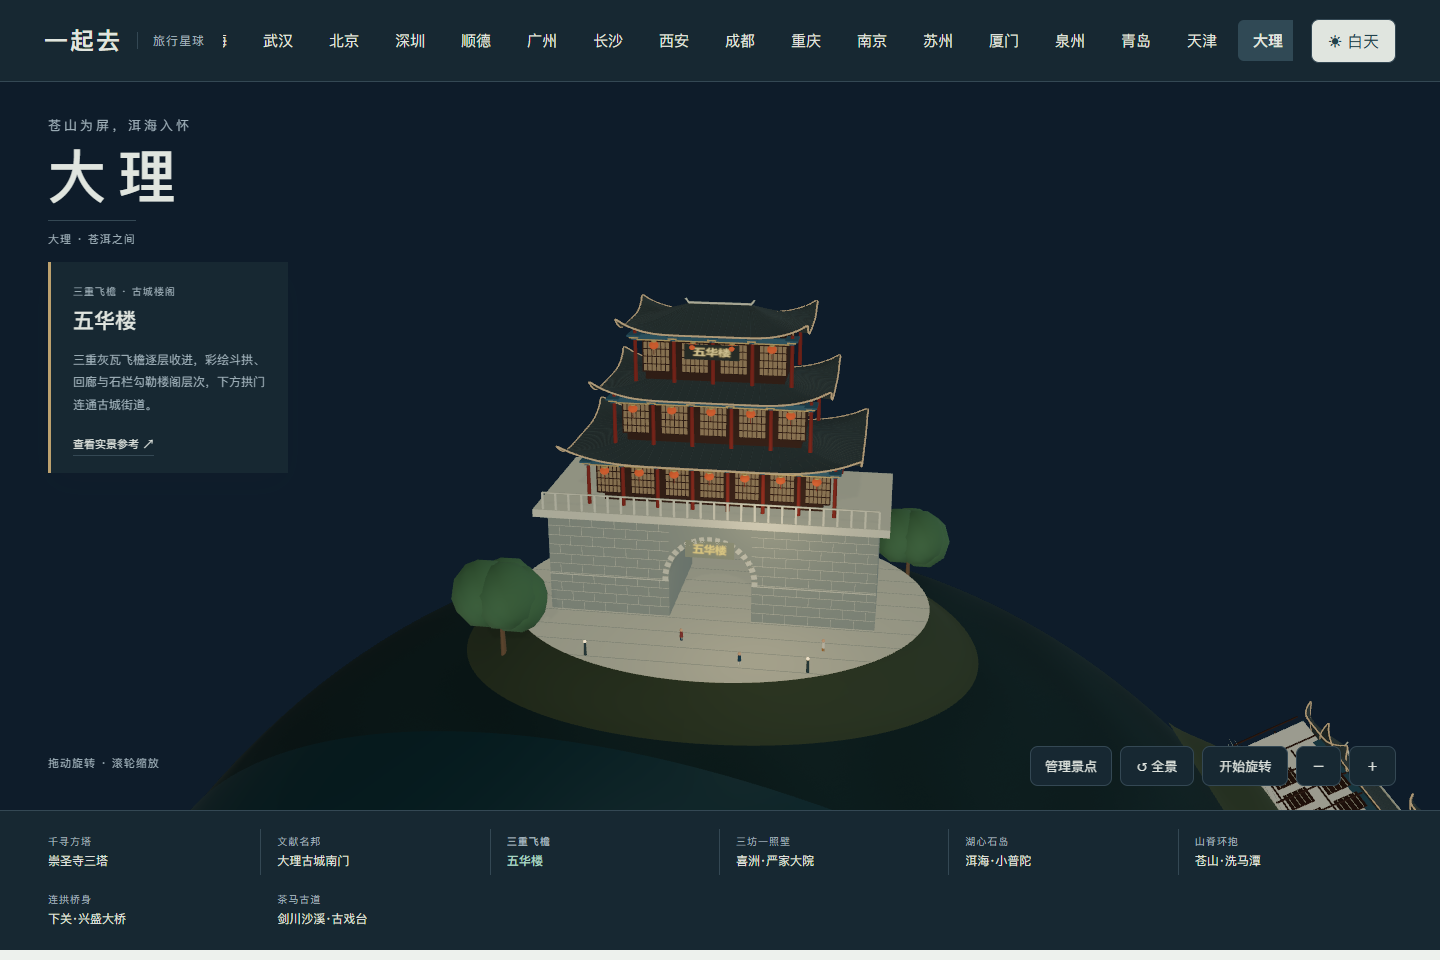
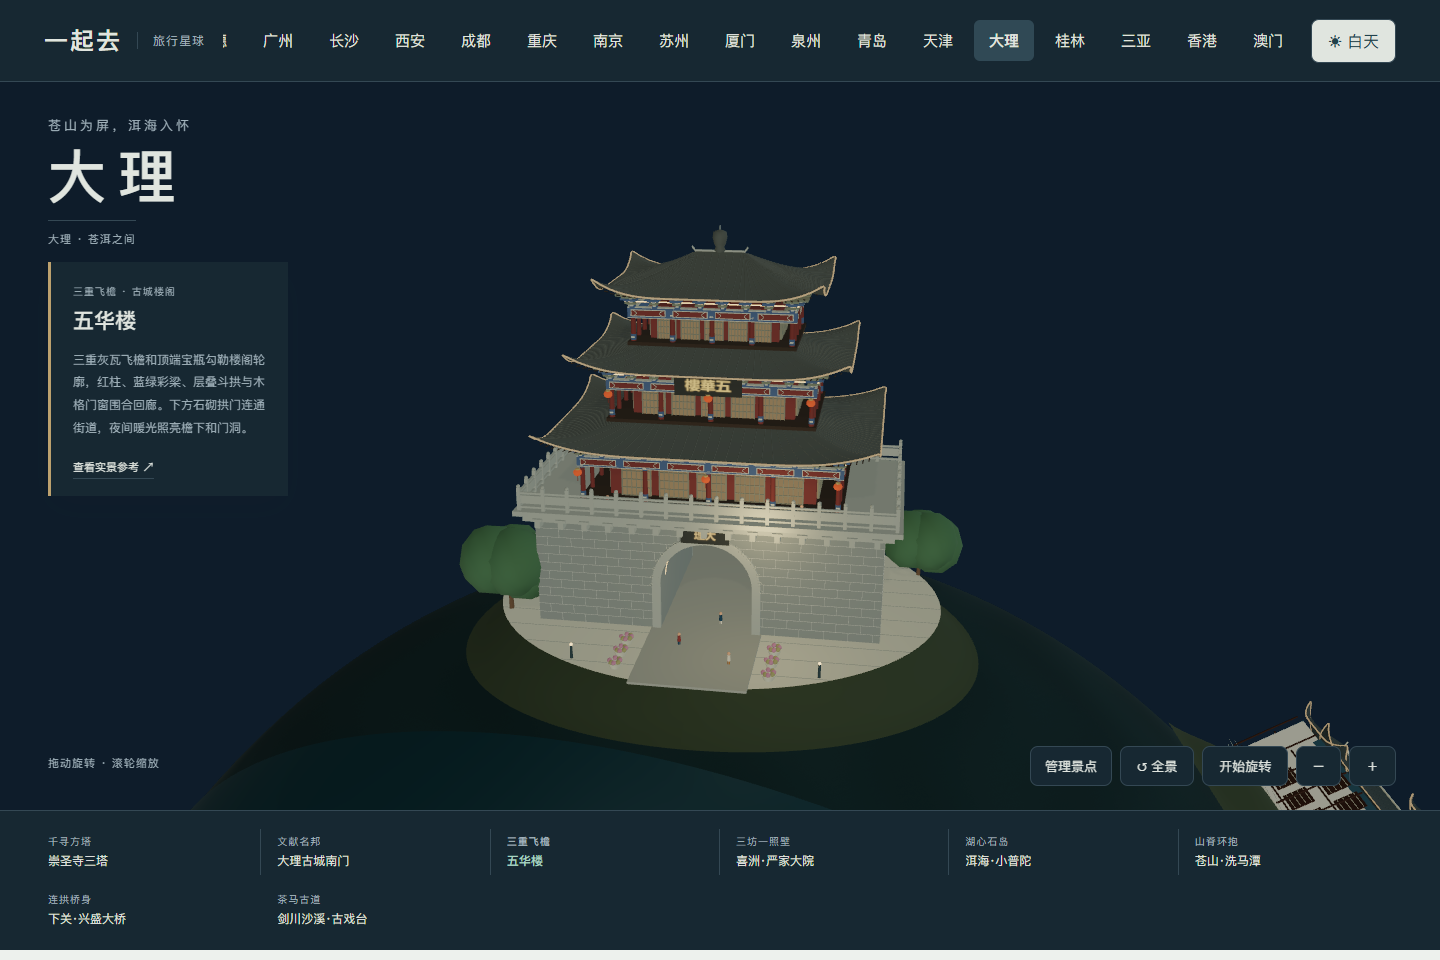
Refine Dali South Gate and Wuhua Tower from photographs

diff --git a/web/dali-south.js b/web/dali-south.js
@@ -1,0 +1,60 @@
+import * as THREE from 'three';
+import {palette,site,paving,disc,roof,lit,sign,archOpening,finish,lattice,lantern,grove} from './dali-kit.js';
+
+export function south(k){
+ const g=new THREE.Group(),p=palette(k),ground=site(k,g,.75,.64);
+ const paved=(x,z)=>{const t=THREE.MathUtils.smoothstep(Math.hypot(x/.65,z/.54),.58,1);return .020*(1-t)+(ground(x,z)+.002)*t;};
+ disc(k,g,.65,.54,paved,p.pale);
+ for(let j=-5;j<=5;j++){const z=j*.54/6,w=2*.65*Math.sqrt(1-(z/.54)**2);k.line(g,Array.from({length:41},(_,i)=>{const x=(i/40-.5)*w;return [x,paved(x,z)+.001,z];}),.0005,p.stone);}
+
+ const stone=lit(k,'#777e72',.18,'#b6a17b'),joint=k.mat('#a2a592',.97),cap=k.mat('#898d7a',.97),blue=lit(k,'#325c80',.14,'#a2b8bf'),green=lit(k,'#47786b',.12),cream=k.mat('#b8b895',.93),red=lit(k,'#8b392d',.13,'#be8052'),wood=k.mat('#4f3a2e',.94),pane=lit(k,'#342f29',.12),gold=lit(k,'#b4a16a',.65),warm=lit(k,'#c5a16d',.88),tile=lit(k,'#505e58',.24,'#b49c72');stone.userData.southWall=true;
+ const floor=k.mat('#a7a795',.96);floor.userData.southPaving=true;
+ const supported=(x,z,w,d,top,mat)=>{const geo=new THREE.BoxGeometry(w,1,d,12,1,48),v=geo.attributes.position;for(let i=0;i<v.count;i++)v.setY(i,v.getY(i)>0?(typeof top==='function'?top(x+v.getX(i),z+v.getZ(i)):top):ground(x+v.getX(i),z+v.getZ(i))+.0003);geo.computeVertexNormals();k.mesh(g,geo,mat,x,0,z);};
+ supported(0,0,1.30,.42,.0285,stone);const approach=(x,z,edge,start)=>{const t=THREE.MathUtils.smoothstep(Math.abs(z),start,edge);return Math.max(.029*(1-t)+(ground(x,z)+.003)*t,paved(x,z)+.006);};supported(0,0,.28,1.1,(x,z)=>approach(x,z,.55,.25),floor);
+ const masonry=(x,w,h,d,opening,rise)=>{
+  archOpening(k,g,stone,{w,h,opening,rise,d,x,y:.029});const spring=.029+rise-opening/2;
+  for(const z of [-d/2-.001,d/2+.001]){
+   for(let j=1;j<h/.022;j++){const y=.029+j*.022,half=y<spring?opening/2:y<spring+opening/2?Math.sqrt((opening/2)**2-(y-spring)**2):0;
+    for(const side of [-1,1]){const length=w/2-half;k.box(g,length,.0009,.001,joint,x+side*(w/2+half)/2,y,z);}
+    for(let i=0;i<Math.ceil(w/.049);i++){const xx=-w/2+(i+.5+(j%2)*.5)*.049;if(Math.abs(xx)>half+.008&&Math.abs(xx)<w/2-.003)k.box(g,.0008,.021,.001,joint,x+xx,y-.011,z);}
+   }
+   for(let j=0;j<=30;j++){const a=j/30*Math.PI;const o=k.box(g,.012,.021,.008,cap,x+Math.cos(a)*(opening/2+.010),spring+Math.sin(a)*(opening/2+.010),z);o.rotation.z=a-Math.PI/2;}
+   for(const side of [-1,1])k.box(g,.02,spring-.029,.008,cap,x+side*(opening/2+.010),(spring+.029)/2,z);
+  }
+  k.box(g,w,.018,d+.016,cap,x,.029+h+.009,0);
+  for(const side of [-1,1])for(let i=0;i<Math.round(w/.09);i++){const xx=x+(i/(Math.round(w/.09)-1)-.5)*(w-.06),yy=.029+h+.041;k.box(g,.052,.048,.03,stone,xx,yy,side*(d/2-.008));k.box(g,.058,.008,.036,cap,xx,yy+.028,side*(d/2-.008));k.box(g,.011,.014,.002,wood,xx,yy-.007,side*(d/2+.008));}
+ };
+ masonry(0,.94,.34,.42,.24,.276);for(const side of [-1,1])masonry(side*.56,.18,.28,.26,.082,.195);
+ for(const x of [-.651,.651])for(let j=0;j<12;j++)k.box(g,.001,.0009,.26,joint,x,.039+j*.022,0);
+ // Paving continues through the two flanking openings as well as the central portal.
+ for(const side of [-1,1])supported(side*.56,.03,.105,.82,(x,z)=>approach(x,z,.44,.20),floor);
+ for(const z of [-.18,.0,.18]){const pts=[];for(let j=0;j<=32;j++){const a=j/32*Math.PI;pts.push([Math.cos(a)*.119,.185+Math.sin(a)*.119,z]);}k.line(g,pts,.0015,warm);}
+ k.box(g,.86,.011,.38,wood,0,.3915,0);
+ const beamPattern=(parent,w,y,z)=>{k.box(parent,w,.022,.016,blue,0,y,z);for(const yy of [-.011,.011])k.box(parent,w,.002,.019,cream,0,y+yy,z);const n=Math.round(w/.10);for(let i=0;i<n;i++){const xx=((i+.5)/n-.5)*w,ww=w/n*.82;k.box(parent,ww,.015,.002,green,xx,y,z+.009);for(const side of [-1,1])k.line(parent,[[xx+side*ww*.42,y-.006,z+.011],[xx+side*ww*.30,y,z+.011],[xx+side*ww*.42,y+.006,z+.011]],.001,cream);k.mesh(parent,new THREE.TorusGeometry(.006,.001,4,12),cream,xx,y,z+.011);}};
+ const brackets=(parent,w,d,y)=>{for(const side of [-1,1])for(const axis of [0,1]){const len=axis?d:w,n=Math.round(len/.047);for(let i=0;i<=n;i++){const at=(i/n-.5)*len;for(let j=0;j<4;j++){const off=.008*j,x=axis?side*(w/2+off):at,z=axis?at:side*(d/2+off);k.box(parent,.012+j*.009,.006,.014+j*.012,j%2?green:blue,x,y+j*.012,z);k.box(parent,.006,.006,.009,cream,x,y+j*.012-.006,z);}}}};
+ const tiers=[[.78,.35,.397,.13,1.02,.58,.075],[.63,.30,.645,.115,.88,.51,.128]];
+ for(const [w,d,y,h,rw,rd,rh]of tiers){
+  const b=new THREE.Group();b.position.y=y;g.add(b);k.box(b,w*.82,h*.92,d*.65,wood,0,h*.46,0);
+  for(const side of [-1,1]){const face=new THREE.Group();face.rotation.y=side<0?Math.PI:0;b.add(face);
+   for(let i=0;i<7;i++){const x=(i-3)*w*.118;k.box(face,w*.091,h*.70,.003,pane,x,h*.43,d*.33+.002);lattice(k,face,x,h*.43,d*.33+.005,w*.085,h*.68,wood);}
+   for(let i=0;i<=6;i++){const x=(i/6-.5)*w;k.cyl(face,.006,.0075,h,red,x,h/2,d*.50,12);for(const yy of [.025,h-.018]){k.cyl(face,.0077,.0077,.017,green,x,yy,d*.50,12);k.box(face,.012,.002,.002,cream,x,yy,d*.50+.008);}}
+   beamPattern(face,w+.02,h-.008,d*.50);for(let i=0;i<=6;i++)lantern(k,face,p,(i/6-.5)*w,h+.012,d*.62,.013);
+  }
+  for(const side of [-1,1]){const face=new THREE.Group();face.rotation.y=side*Math.PI/2;b.add(face);beamPattern(face,d,h-.008,w*.50);for(let i=-1;i<=1;i++)k.cyl(b,.006,.007,h,red,side*w*.50,h/2,i*d*.27,12);}
+  for(const side of [-1,1])for(let j=-1;j<=1;j++){const face=new THREE.Group();face.rotation.y=side*Math.PI/2;b.add(face);k.box(face,d*.17,h*.65,.003,pane,j*d*.21,h*.43,w*.413);lattice(k,face,j*d*.21,h*.43,w*.417,d*.16,h*.64,wood);}
+  brackets(b,w,d,h+.006);roof(k,b,{...p,tile,pale:cream},rw,rd,rh,h+.054);
+  for(const side of [-1,1]){k.box(b,w+.05,.003,.004,warm,0,h+.035,side*(d/2+.03));k.box(b,.003,.003,d+.05,warm,side*(w/2+.03),h+.035,0);}
+  // Closely spaced round eave tiles and separate rafters give the double roof its depth.
+  for(const side of [-1,1])for(let i=0;i<65;i++){const x=(i/64-.5)*rw*.94,u=Math.abs(x/(rw/2)),yy=h+.054+.04*u**8;k.ball(b,.0023,cream,x,yy,side*rd*.50);k.beam(b,[x,yy-.007,side*rd*.44],[x,yy-.003,side*rd*.50],.0016,red,6);}
+  const ridge=(rw-rd)*.48;for(const side of [-1,1]){k.line(b,[[side*ridge,h+.054+rh,0],[side*(ridge+.022),h+.054+rh+.014,0],[side*(ridge+.027),h+.054+rh+.038,0],[side*(ridge+.019),h+.054+rh+.046,0]],.004,cream);}
+  for(let j=-3;j<=3;j++){const xx=j*ridge/3;k.cyl(b,.003,.005,.017,cream,xx,h+.054+rh+.010,0,8);k.ball(b,.003,gold,xx,h+.054+rh+.020,0);}
+ }
+ if(typeof document!=='undefined')for(const [i,char]of [...'邦名獻文'].entries()){
+  const c=document.createElement('canvas');c.width=c.height=256;const ctx=c.getContext('2d');ctx.fillStyle='#283d3b';ctx.fillRect(0,0,256,256);ctx.strokeStyle='#7c977c';ctx.lineWidth=4;ctx.strokeRect(5,5,246,246);ctx.font='bold 190px "Microsoft YaHei",sans-serif';ctx.fillStyle='#a6b997';ctx.textAlign='center';ctx.textBaseline='middle';ctx.fillText(char,128,137);const tex=new THREE.CanvasTexture(c);tex.colorSpace=THREE.SRGBColorSpace;const mat=lit(k,'#ffffff',.4);mat.map=tex;mat.emissiveMap=tex;k.mesh(g,new THREE.PlaneGeometry(.078,.086),mat,(i-1.5)*.099,.742,.198);
+ }
+ sign(k,g,'理大',.126,.057,0,.324,.218,{background:'#7b8378',color:'#bba265'});
+ // Raised flowerbeds follow the real approach; the central route stays unobstructed.
+ for(const side of [-1,1]){supported(side*.325,.36,.29,.19,.0505,cap);k.box(g,.275,.004,.175,p.leaf,side*.325,.0525,.36);for(let i=0;i<22;i++){const x=side*.325+Math.sin(i*2.4)*.11,z=.36+Math.cos(i*2.4)*.063;k.ball(g,.007,k.mat(i%3?'#9f5969':'#c3aa68'),x,.062,z);}}
+ grove(k,g,ground,[[-.62,-.24,.19],[.61,-.25,.18]]);
+ return finish(k,g,{lamps:[[-.37,paved(-.37,.49),.49],[.37,paved(.37,.49),.49]],visitors:[[-.055,approach(-.055,.40,.55,.25),.40],[.08,approach(.08,.30,.55,.25),.30],[.025,.029,.15],[.56,approach(.56,.25,.44,.20),.25],[-.24,.397,.17]]});
+}

diff --git a/web/dali-wuhua.js b/web/dali-wuhua.js
@@ -1,0 +1,66 @@
+import * as THREE from 'three';
+import {palette,site,paving,grove,roof,lit,sign,archOpening,finish,lattice,lantern} from './dali-kit.js';
+
+export function wuhua(k){
+ const g=new THREE.Group(),p=palette(k),ground=site(k,g,.72,.61);paving(k,g,p,.61,.51);
+ const stone=k.mat('#8c938b',.97),seam=k.mat('#b9bcb0',.96),carved=k.mat('#a5aa9e',.96),blue=lit(k,'#455d7b',.07,'#8dacc1'),green=lit(k,'#587466',.07),cream=k.mat('#b9bba9',.92),wood=k.mat('#493e32',.92),red=k.mat('#82473e',.91),warm=lit(k,'#bba372',.85),tile=k.mat('#626861',.95),pane=lit(k,'#403e32',.18),windowGrid=k.mat('#878875',.94);stone.userData.wuhuaWall=true;
+ const floor=k.mat('#a3a699',.95);floor.userData.wuhuaPaving=true;
+ k.box(g,.29,.006,1.04,floor,0,.025,0);
+ archOpening(k,g,stone,{w:.90,h:.29,opening:.24,rise:.246,d:.46,y:.026});
+ const spring=.026+.246-.12;
+ for(const z of [-.232,.232]){
+  for(let j=1;j<12;j++){const y=.026+j*.024,opening=y<spring?.12:y<spring+.12?Math.sqrt(.12**2-(y-spring)**2):0;
+   if(opening){for(const s of [-1,1])k.box(g,.45-opening,.0008,.0008,seam,s*(.45+opening)/2,y,z);}
+   else k.box(g,.9,.0008,.0008,seam,0,y,z);
+   for(let i=0;i<14;i++){const x=-.45+(i+.5+(j%2)*.5)*.063;if(Math.abs(x)<.448&&Math.abs(x)>opening+.009)k.box(g,.0007,.023,.0008,seam,x,y-.012,z);}
+  }
+  for(let i=0;i<48;i++){const a=i/47*Math.PI,x=Math.cos(a)*.131,y=spring+Math.sin(a)*.131;const o=k.box(g,.009,.022,.009,carved,x,y,z);o.rotation.z=a-Math.PI/2;}
+  for(const x of [-.131,.131])k.box(g,.022,spring-.026,.009,carved,x,(spring+.026)/2,z);
+  for(let i=0;i<20;i++){const a=i/19*Math.PI,x=Math.cos(a)*.144,y=spring+Math.sin(a)*.144;const o=k.mesh(g,new THREE.TorusGeometry(.0037,.0007,4,12,Math.PI*1.65),cream,x,y,z+Math.sign(z)*.006);o.rotation.z=a;}
+ }
+ for(const x of [-.451,.451])for(let j=0;j<12;j++){const y=.032+j*.024;k.box(g,.001,.0007,.46,seam,x,y,0);for(let i=0;i<7;i++)k.box(g,.001,.023,.0007,seam,x,y+.012,-.23+(i+.5+(j%2)*.5)*.06);}
+ // Recessed arch lighting remains inside the tunnel rather than closing it.
+ for(const z of [-.17,0,.17]){const pts=[];for(let i=0;i<=32;i++){const a=i/32*Math.PI;pts.push([Math.cos(a)*.119,spring+Math.sin(a)*.119,z]);}k.line(g,pts,.0012,warm);}
+ k.box(g,.95,.020,.51,carved,0,.326,0);k.box(g,.99,.013,.55,carved,0,.3425,0);
+ for(const z of [-.245,.245])for(let i=0;i<15;i++){const x=-.435+i*.062;k.box(g,.014,.022,.030,carved,x,.311,z);k.box(g,.026,.007,.035,carved,x,.322,z);k.box(g,.036,.003,.007,warm,x,.329,z);}
+ const balustrade=(parent,w,d,y)=>{
+  for(const side of [-1,1])for(const axis of [0,1]){const length=axis?d:w,count=Math.round(length/.065);for(let j=0;j<=count;j++){const at=(j/count-.5)*length,x=axis?side*w/2:at,z=axis?at:side*d/2;k.box(parent,.009,.061,.009,carved,x,y+.0305,z);k.ball(parent,.005,carved,x,y+.064,z);if(j<count){const mid=at+length/count/2;for(const yy of [.009,.030,.047])k.box(parent,axis?.006:length/count-.009,yy===.030?.022:.005,axis?length/count-.009:.006,carved,axis?side*w/2:mid,y+yy,axis?mid:side*d/2);}}}
+ };balustrade(g,.96,.52,.349);
+ const beamPattern=(parent,w,y,z)=>{
+  k.box(parent,w,.026,.017,blue,0,y,z);for(const yy of [-.013,.013])k.box(parent,w,.0015,.018,cream,0,y+yy,z);
+  const n=Math.max(3,Math.round(w/.11));for(let i=0;i<n;i++){const x=((i+.5)/n-.5)*w,ww=w/n*.83;k.box(parent,ww,.017,.0015,cream,x,y,z+.010);k.box(parent,ww-.004,.013,.002,red,x,y,z+.011);for(const s of [-1,1])k.line(parent,[[x+s*ww*.42,y-.007,z+.013],[x+s*ww*.33,y,z+.013],[x+s*ww*.42,y+.007,z+.013]],.0008,cream);}
+ };
+ const brackets=(parent,w,d,y)=>{
+  for(const side of [-1,1])for(const axis of [0,1]){const length=axis?d:w,n=Math.round(length/.055);for(let i=0;i<=n;i++){const at=(i/n-.5)*length,x=axis?side*w/2:at,z=axis?at:side*d/2;
+    for(let j=0;j<4;j++){const offset=j*.007,xx=x+(axis?side*offset:0),zz=z+(axis?0:side*offset);k.box(parent,.013+j*.008,.005,.015+j*.010,j%2?green:blue,xx,y+j*.010,zz);k.box(parent,.007,.006,.009,cream,xx,y+j*.010-.005,zz);}
+   }}
+ };
+ for(let level=0;level<3;level++){
+  const sizes=[[.66,.38,.350,.126,.86,.59,.08],[.51,.31,.568,.106,.70,.50,.071],[.40,.26,.764,.092,.56,.43,.082]][level], [w,d,y,h,rw,rd,rh]=sizes;
+  const b=new THREE.Group();g.add(b);b.position.y=y;
+  k.box(b,w*.82,h,d*.69,red,0,h/2,0);k.box(b,w+.025,.009,d+.025,wood,0,.0045,0);
+  for(const side of [-1,1]){
+   const face=new THREE.Group();face.rotation.y=side<0?Math.PI:0;b.add(face);
+   for(let i=0;i<5;i++){const x=(i-2)*w*.151;k.box(face,w*.12,h*.74,.004,pane,x,h*.43,d*.35+.003);lattice(k,face,x,h*.43,d*.35+.006,w*.115,h*.72,windowGrid);}
+   for(let i=0;i<=4;i++){const x=(i/4-.5)*w;k.cyl(face,.0057,.0072,h,red,x,h/2,d*.49,12);for(const yy of [h*.21,h*.84]){k.cyl(face,.0073,.0073,.015,blue,x,yy,d*.49,12);k.box(face,.009,.004,.001,cream,x,yy,d*.49+.008);}}
+   beamPattern(face,w+.025,h-.010,d*.49);
+   if(level<2)for(const i of [0,2,4])lantern(k,face,p,(i/4-.5)*w,h-.027,d*.61,.011);
+  }
+  for(const side of [-1,1]){const face=new THREE.Group();face.rotation.y=side*Math.PI/2;b.add(face);beamPattern(face,d,h-.010,w*.50);for(const z of [-d*.25,0,d*.25])k.cyl(b,.005,.006,h,red,side*w*.50,h/2,z,10);}
+  brackets(b,w,d,h+.005);
+  for(const side of [-1,1]){k.box(b,w+.035,.0025,.003,warm,0,h+.020,side*(d/2+.014));k.box(b,.003,.0025,d+.035,warm,side*(w/2+.014),h+.020,0);}
+  for(const side of [-1,1])for(let j=0;j<3;j++){const z=(j-1)*d*.21;const q=new THREE.Group();q.rotation.y=side*Math.PI/2;b.add(q);k.box(q,d*.16,h*.60,.003,pane,z,h*.44,w*.412);lattice(k,q,z,h*.44,w*.416,d*.15,h*.59,windowGrid);}
+
+  const rp={...p,tile,pale:carved};roof(k,b,rp,rw,rd,rh,h+.043);
+  // Rafters and layered fascia show the depth of the overhanging roof.
+  for(const side of [-1,1])for(let i=0;i<Math.round(rw/.015);i++){const x=(i/(Math.round(rw/.015)-1)-.5)*rw*.94,corner=Math.abs(x/(rw/2))**8,yy=h+.043+.035*corner;k.beam(b,[x,yy-.006,side*rd*.43],[x,yy+.001,side*rd*.50],.0016,wood,5);}
+ }
+ // Pyramidal crown and vase-shaped finial visible in the real roof silhouette.
+ const top=.979;const profile=[[.010,0],[.014,.006],[.011,.015],[.015,.022],[.019,.039],[.017,.052],[.009,.056],[0,.058]];
+ k.mesh(g,new THREE.LatheGeometry(profile.map(([r,y])=>new THREE.Vector2(r,top+y)),24),tile);k.cyl(g,.001,.0015,.011,carved,0,top+.0635,0,8);
+ sign(k,g,'樓華五',.17,.053,0,.680,.191,{background:'#292d28',color:'#c7b27d'});
+ sign(k,g,'理大',.125,.048,0,.303,.246,{background:'#30342f',color:'#b9a47a'});
+ for(const side of [-1,1])for(let j=0;j<3;j++){const x=side*.19,z=.33+j*.062;k.cyl(g,.018,.012,.014,p.pale,x,.034,z,12);for(let n=0;n<7;n++){const a=n*2.4;k.ball(g,.006,k.mat(n%2?'#a3a06f':'#bc8d9e',.93),x+Math.sin(a)*.013,.046,z+Math.cos(a)*.013);}}
+ grove(k,g,ground,[[-.55,.17,.21],[.55,-.22,.19]]);
+ return finish(k,g,{lamps:[[-.31,.024,.42],[.31,.024,.42]],visitors:[[-.055,.029,.32],[.032,.029,.19],[.085,.029,.40],[-.26,.349,.21],[.24,.349,.20]]});
+}

diff --git a/web/dali-oldtown.js b/web/dali-oldtown.js
@@ -1,24 +1,7 @@
 import * as THREE from 'three';
 import {palette,site,paving,steps,grove,roof,story,lit,sign,archOpening,railing,finish,wallPattern,lantern} from './dali-kit.js';
-function gate(k,three){
- const g=new THREE.Group(),p=palette(k),height=site(k,g,.72,.59);paving(k,g,p,.58,.48);
- const width=three?.87:1.12,h=three?.28:.32,d=.34,open=three?.22:.24;
- archOpening(k,g,p.stone,{w:width,h,opening:open,rise:h*.79,d,y:.03});
- for(const side of [-1,1]){const span=(width-open)/2;k.box(g,span,.002,.002,p.pale,side*(width+open)/4,h*.48,d/2+.002);wallPattern(k,g,p,span,h,d,side*(width+open)/4,.03+h/2,0);}
- // A clear vaulted passage continues through the masonry base.
- for(let j=0;j<19;j++){const a=j/18*Math.PI,rad=open/2+.009;k.box(g,.012,.015,.004,p.pale,Math.cos(a)*rad,.03+h*.79-open/2+Math.sin(a)*rad,d/2+.003).rotation.z=a-Math.PI/2;}
- k.box(g,width+.055,.021,d+.08,p.pale,0,.041+h,0);
- if(three)railing(k,g,p,[[-width/2,.052+h,.205],[width/2,.052+h,.205]],.046);
- else for(let i=0;i<13;i++){const xx=-width/2+i*width/12;k.box(g,.052,.045,.029,p.stone,xx,h+.067,.19);}
- const levels=three?3:2;
- for(let i=0;i<levels;i++){const w=(three?.64:.82)*(.79**i),dd=(three?.36:.35)*(.83**i);story(k,g,p,{w,d:dd,y:h+.06+i*.162,h:.132,lanterns:true});}
- sign(k,g,three?'五华楼':'文献名邦',three?.14:.23,.039,0,h+.06+(levels-1)*.162+.086,(three?.36:.35)*(.83**(levels-1))*.48+.012,{background:'#242d2a',color:'#c9bb87'});
- sign(k,g,three?'五华楼':'大理',.13,.048,0,h*.83,d/2+.005,{background:'#72796d',color:'#d4bd6c'});
- grove(k,g,height,[[-.54,.28,.20],[.52,-.25,.18]]);
- return finish(k,g,{lamps:[[-.28,.024,.40],[.28,.024,.40]],visitors:[[-.055,.025,.29],[.11,.025,.39],[.31,.025,.29]]});
-}
-export const south=k=>gate(k,false);
-export const wuhua=k=>gate(k,true);
+export {south} from './dali-south.js';
+export {wuhua} from './dali-wuhua.js';
 function baiBlock(k,g,p,x,z,w,d){
  const b=new THREE.Group();b.position.set(x,.031,z);g.add(b);k.box(b,w,.225,d,p.wall,0,.1125,0);
  for(const side of [-1,1]){for(const y of [.065,.177]){for(let i=0;i<5;i++){const xx=(i-2)*w*.17;k.box(b,w*.115,.071,.004,p.wood,xx,y,side*(d/2+.002));for(let j=0;j<4;j++)k.box(b,w*.105,.0014,.002,p.pale,xx,y-.025+j*.017,side*(d/2+.005));}k.box(b,w,.005,.005,p.wood,0,y-.045,side*(d/2+.008));}

diff --git a/web/dali-landmarks.js b/web/dali-landmarks.js
@@ -32,7 +32,7 @@ export const LANDMARKS=[
    0.65,
    1.9
   ],
-  "description": "石砌城台托起双层城楼，朱柱与青蓝彩梁之间悬挂红灯笼，文献名邦匾额和贯通城门面向石板广场。",
+  "description": "宽阔石砌城墙托起双层挑檐城楼，蓝绿彩绘斗拱、朱柱与红灯笼围绕四块「文献名邦」竖匾。中央和两侧门洞连接缓坡石径，夜间暖光照亮檐下与砖石。",
   "source": "https://www.feastographyblog.com/blog/dali-ancient-city",
   "grounded": true
  },
@@ -49,7 +49,7 @@ export const LANDMARKS=[
    0.65,
    1.9
   ],
-  "description": "三重灰瓦飞檐逐层收进，彩绘斗拱、回廊与石栏勾勒楼阁层次，下方拱门连通古城街道。",
+  "description": "三重灰瓦飞檐和顶端宝瓶勾勒楼阁轮廓，红柱、蓝绿彩梁、层叠斗拱与木格门窗围合回廊。下方石砌拱门连通街道，夜间暖光照亮檐下和门洞。",
   "source": "https://www.visitourchina.com/dali/attraction/the-ancient-city-of-dali.html",
   "grounded": true
  },

diff --git a/README.md b/README.md
@@ -1,6 +1,6 @@
 # 一起去 · Travel Planet
 
-用可旋转的 3D 城市星球发现景点，再和朋友一起决定怎么旅行。当前版本 **0.55.63**，支持桌面和手机网页。
+用可旋转的 3D 城市星球发现景点，再和朋友一起决定怎么旅行。当前版本 **0.55.65**，支持桌面和手机网页。
 
 **[上海旅行 · 在线体验](https://43.139.249.151/travel/shanghai-trip.html)** · **[杭州旅行](https://43.139.249.151/travel/)** · **[武汉旅行](https://43.139.249.151/travel/wuhan-trip.html)** · **[武汉纯地图](https://43.139.249.151/travel/wuhan.html)** · **[上海纯地图](https://43.139.249.151/travel/shanghai.html)** · **[北京地图](https://43.139.249.151/travel/beijing.html)** · **[深圳地图](https://43.139.249.151/travel/shenzhen.html)** · **[顺德地图](https://43.139.249.151/travel/shunde.html)** · **[广州地图](https://43.139.249.151/travel/guangzhou.html)** · **[长沙地图](https://43.139.249.151/travel/changsha.html)** · **[西安地图](https://43.139.249.151/travel/xian.html)** · **[成都地图](https://43.139.249.151/travel/chengdu.html)** · **[重庆地图](https://43.139.249.151/travel/chongqing.html)** · **[南京地图](https://43.139.249.151/travel/nanjing.html)** · **[苏州地图](https://43.139.249.151/travel/suzhou.html)** · **[厦门地图](https://43.139.249.151/travel/xiamen.html)** · **[泉州地图](https://43.139.249.151/travel/quanzhou.html)** · **[青岛地图](https://43.139.249.151/travel/qingdao.html)** · **[天津地图](https://43.139.249.151/travel/tianjin.html)** · **[大理地图](https://43.139.249.151/travel/dali.html)** · **[桂林地图](https://43.139.249.151/travel/guilin.html)** · **[三亚地图](https://43.139.249.151/travel/sanya.html)** · **[香港地图](https://43.139.249.151/travel/hongkong.html)** · **[澳门地图](https://43.139.249.151/travel/macau.html)**
 

diff --git a/docs/DALI_REFERENCES.md b/docs/DALI_REFERENCES.md
@@ -27,3 +27,25 @@
 ![塔身与塔檐](images/dali-pagodas-oblique.png)
 
 ![夜间展示](images/dali-pagodas-night.png)
+
+
+## 0.55.64 五华楼
+
+根据 [2026 年正面实拍](https://commons.wikimedia.org/wiki/File:Wuhua_Tower_20260220_135004.jpg)、[楼阁与城台细部](https://pc.dllyjszx.com/article-466.html) 和 [日夜照片](https://www.sightunpacked.com/destinations/china/dali/dali-old-town/)，补出三层彩绘梁枋、层叠斗拱、木格门窗、石栏、拱门饰圈与屋顶宝瓶。回廊退进柱网，门洞保持真实贯通。
+
+保留红柱、蓝绿彩绘与灰瓦的日间颜色，夜间暖光集中在檐下和门洞。模型为缩微表达，后侧细节依据可见构件补全，不宣称每面均有照片佐证；参考照片不随项目分发。
+
+![五华楼日景](images/dali-wuhua-day.png)
+
+![五华楼夜景](images/dali-wuhua-night.png)
+
+
+## 0.55.65 大理古城南门
+
+对照[正面日景实拍](https://www.feastographyblog.com/blog/dali-ancient-city)、[夜间斜俯视照片](https://www.loongwander.com/article/dali-ancient-town)和[城门与广场照片](https://h5.ifeng.com/c/vivoArticle/v002oEry0CoaqSklCrsofWI0XUouEj00JOOAWniIbpliAbM__?isNews=1&showComments=0)，补出宽石墙、中央与侧门、双层挑檐、蓝绿彩绘斗拱、红柱木窗、灯笼、花坛和四块独立的「文献名邦」匾额。匾额沿传统方向从右向左排列，字形为简化表达。
+
+入口采用贴合球面地形的连续缓坡，门洞内铺地保持平整；修复承托沉入球面、坡道与广场重叠以及单字被横版贴图压窄的问题。夜间暖光照向檐下和砖石，不改变日间材质。参考照片不随项目分发；模型为缩微景观，不代表测绘复原。五华楼的 0.55.64 修改合并于此版本交付。
+
+![南门日景](images/dali-south-day.png)
+
+![南门夜景](images/dali-south-night.png)

diff --git a/docs/TESTING.md b/docs/TESTING.md
@@ -615,3 +615,17 @@ python tools/travel-flow-check.py
 2026-11-05 04:55—05:00 完成 383 项完整测试、387 项语法检查。新增两条各 361 点的湖上步道与台阶连续性检查，核查观景舱相对高度和塔身收分。
 
 04:56:45—04:56:56 完成正式正侧背、日夜及 320/390 截图，05:01—05:02 核看重点画面与管理面板。04:56:57—04:59:18 天津八组不重复日夜、整组增删重载、触控键盘、五宽度和 WebGL 恢复通过；页面错误与业务写入为 0。手机为浏览器模拟，尚未部署。
+
+
+## 0.55.64 五华楼
+
+2026-11-05 05:04—05:08 完成 384 项完整测试和 388 项语法检查。新增三条各 201 点的贯通门洞铺地检查，核对实心侧墩、回廊净空与楼阁高度。
+
+05:04:08—05:04:18 完成正式日夜、正侧背及 320/390 截图，05:06—05:08 核看实图与管理面板。05:04:18—05:06:17 大理八组不重复日夜、整组增删重载、触控键盘、五宽度及 WebGL 恢复通过；页面错误与业务写入均为 0。手机为浏览器模拟；尚未部署。
+
+
+## 0.55.65 大理古城南门与五华楼
+
+2026-11-05 05:14—05:19 完成 385 项完整测试和 389 项语法检查。新增中央及两侧门洞净空、实心墙墩、三条各 201 点的坡道连续性与门内平地检查。
+
+05:14:50—05:15:00 完成南门正式日夜、正侧背及 320/390 截图，05:17—05:18 核看重点实图和管理面板。05:15:00—05:17:02 大理八组不重复日夜、整组增删重载、触控键盘、五宽度及 WebGL 恢复通过，页面错误与业务写入均为 0。手机为浏览器模拟；五华楼已验收后合并，尚未部署。
